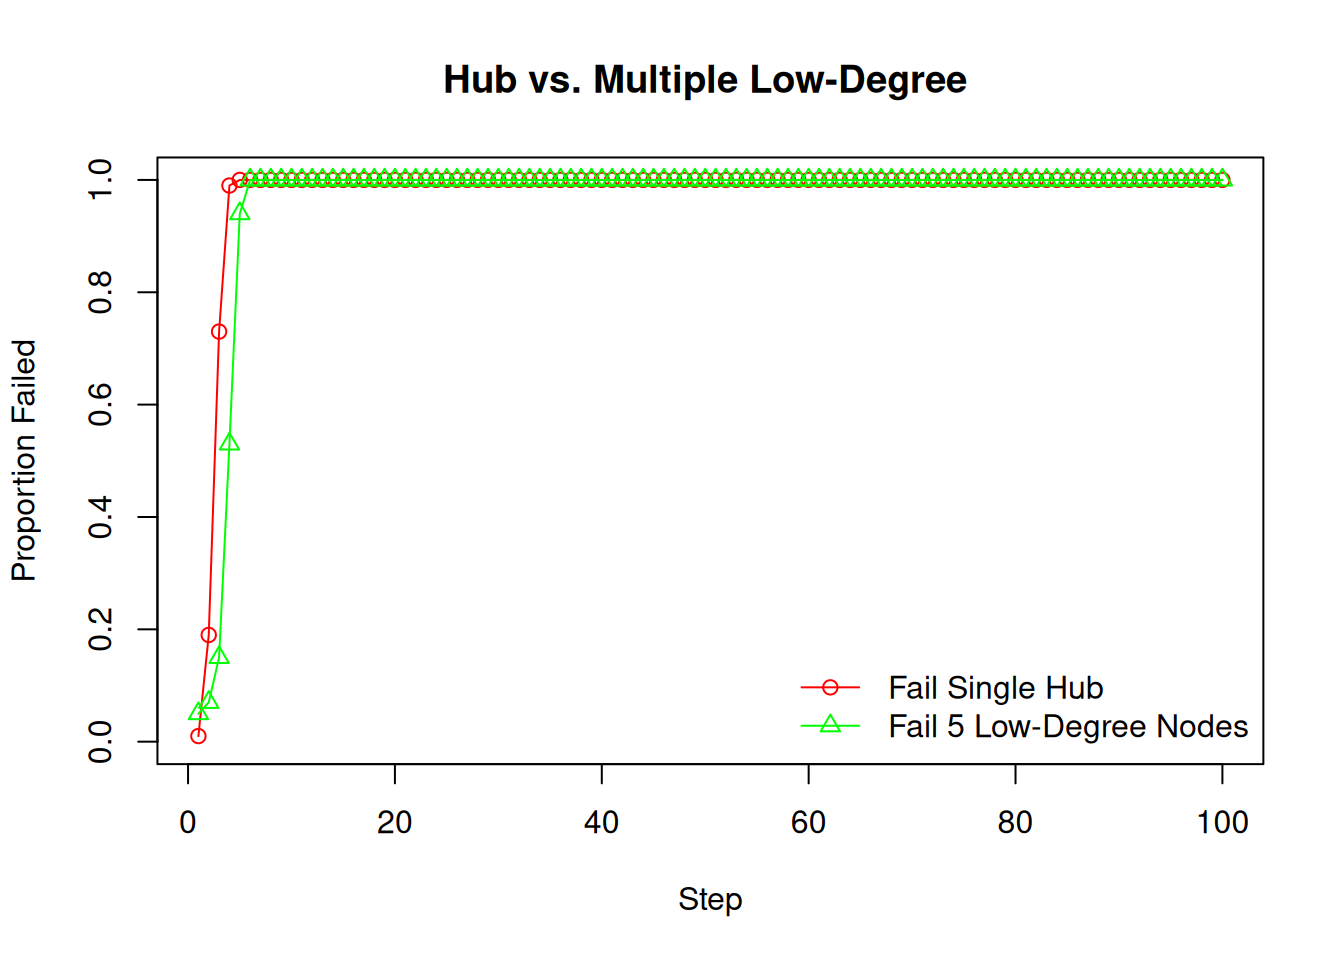
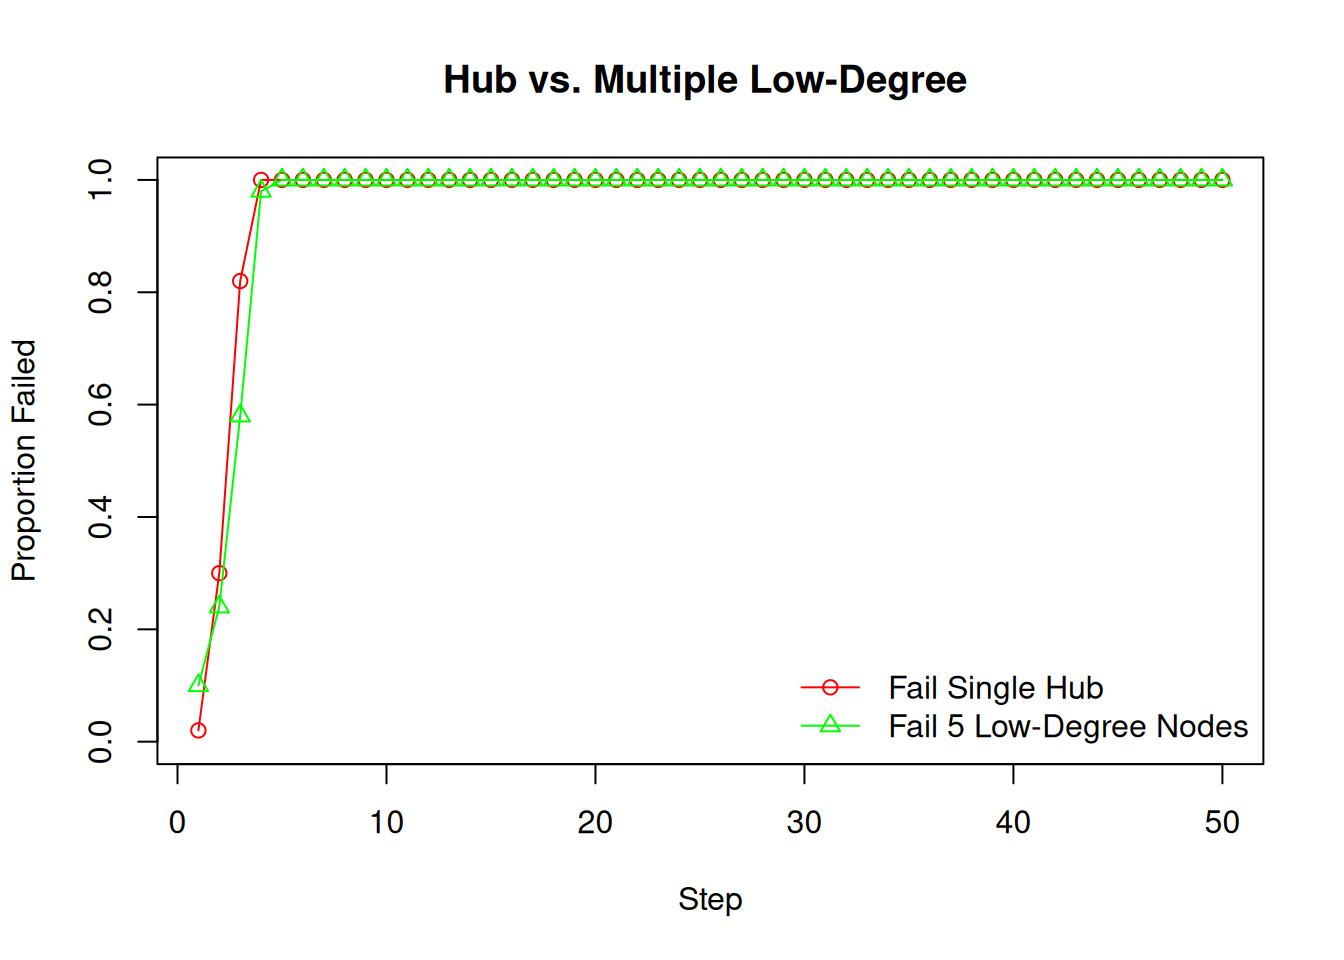
adjust alpha in MC's code

diff --git a/week6_2.html b/week6_2.html
@@ -213,7 +213,7 @@ window.Quarto = {
 <div class="cell">
 <div class="sourceCode cell-code" id="cb2"><pre class="sourceCode r code-with-copy"><code class="sourceCode r"><span id="cb2-1"><a href="#cb2-1" aria-hidden="true" tabindex="-1"></a><span class="fu">mean</span>(<span class="fu">degree</span>(gs[[<span class="dv">1</span>]]))</span></code><button title="Copy to Clipboard" class="code-copy-button"><i class="bi"></i></button></pre></div>
 <div class="cell-output cell-output-stdout">
-<pre><code>[1] 4.4</code></pre>
+<pre><code>[1] 5.6</code></pre>
 </div>
 <div class="sourceCode cell-code" id="cb4"><pre class="sourceCode r code-with-copy"><code class="sourceCode r"><span id="cb4-1"><a href="#cb4-1" aria-hidden="true" tabindex="-1"></a><span class="fu">mean</span>(<span class="fu">degree</span>(gs[[<span class="dv">2</span>]]))</span></code><button title="Copy to Clipboard" class="code-copy-button"><i class="bi"></i></button></pre></div>
 <div class="cell-output cell-output-stdout">
@@ -259,8 +259,8 @@ window.Quarto = {
 <h3 class="anchored" data-anchor-id="ba">BA</h3>
 <div class="cell">
 <div class="cell-output-display">
-<div class="visNetwork html-widget html-fill-item" id="htmlwidget-3789410e3f987a60fe19" style="width:100%;height:464px;"></div>
-<script type="application/json" data-for="htmlwidget-3789410e3f987a60fe19">{"x":{"nodes":{"id":["1","2","3","4","5","6","7","8","9","10","11","12","13","14","15","16","17","18","19","20"],"label":["1","2","3","4","5","6","7","8","9","10","11","12","13","14","15","16","17","18","19","20"]},"edges":{"from":["2","3","4","5","6","7","8","9","10","11","12","13","14","15","16","17","18","19","20"],"to":["1","2","2","1","1","2","6","2","1","10","2","11","2","2","2","6","6","2","6"]},"nodesToDataframe":true,"edgesToDataframe":true,"options":{"width":"100%","height":"100%","nodes":{"shape":"dot"},"manipulation":{"enabled":false},"physics":{"stabilization":true},"interaction":{"dragNodes":true,"dragView":true,"zoomSpeed":1}},"groups":null,"width":null,"height":null,"idselection":{"enabled":true,"style":"width: 150px; height: 26px","useLabels":true,"main":"Select by id"},"byselection":{"enabled":false,"style":"width: 150px; height: 26px","multiple":false,"hideColor":"rgba(200,200,200,0.5)","highlight":false},"main":null,"submain":null,"footer":null,"background":"rgba(0, 0, 0, 0)","highlight":{"enabled":true,"hoverNearest":false,"degree":1,"algorithm":"all","hideColor":"rgba(200,200,200,0.5)","labelOnly":true},"collapse":{"enabled":false,"fit":false,"resetHighlight":true,"clusterOptions":null,"keepCoord":true,"labelSuffix":"(cluster)"},"tooltipStay":300,"tooltipStyle":"position: fixed;visibility:hidden;padding: 5px;white-space: nowrap;font-family: verdana;font-size:14px;font-color:#000000;background-color: #f5f4ed;-moz-border-radius: 3px;-webkit-border-radius: 3px;border-radius: 3px;border: 1px solid #808074;box-shadow: 3px 3px 10px rgba(0, 0, 0, 0.2);"},"evals":[],"jsHooks":[]}</script>
+<div class="visNetwork html-widget html-fill-item" id="htmlwidget-915ab1a02c42fb39881e" style="width:100%;height:464px;"></div>
+<script type="application/json" data-for="htmlwidget-915ab1a02c42fb39881e">{"x":{"nodes":{"id":["1","2","3","4","5","6","7","8","9","10","11","12","13","14","15","16","17","18","19","20"],"label":["1","2","3","4","5","6","7","8","9","10","11","12","13","14","15","16","17","18","19","20"]},"edges":{"from":["2","3","4","5","6","7","8","9","10","11","12","13","14","15","16","17","18","19","20"],"to":["1","1","1","1","1","6","1","6","1","5","5","10","6","9","1","1","1","9","1"]},"nodesToDataframe":true,"edgesToDataframe":true,"options":{"width":"100%","height":"100%","nodes":{"shape":"dot"},"manipulation":{"enabled":false},"physics":{"stabilization":true},"interaction":{"dragNodes":true,"dragView":true,"zoomSpeed":1}},"groups":null,"width":null,"height":null,"idselection":{"enabled":true,"style":"width: 150px; height: 26px","useLabels":true,"main":"Select by id"},"byselection":{"enabled":false,"style":"width: 150px; height: 26px","multiple":false,"hideColor":"rgba(200,200,200,0.5)","highlight":false},"main":null,"submain":null,"footer":null,"background":"rgba(0, 0, 0, 0)","highlight":{"enabled":true,"hoverNearest":false,"degree":1,"algorithm":"all","hideColor":"rgba(200,200,200,0.5)","labelOnly":true},"collapse":{"enabled":false,"fit":false,"resetHighlight":true,"clusterOptions":null,"keepCoord":true,"labelSuffix":"(cluster)"},"tooltipStay":300,"tooltipStyle":"position: fixed;visibility:hidden;padding: 5px;white-space: nowrap;font-family: verdana;font-size:14px;font-color:#000000;background-color: #f5f4ed;-moz-border-radius: 3px;-webkit-border-radius: 3px;border-radius: 3px;border: 1px solid #808074;box-shadow: 3px 3px 10px rgba(0, 0, 0, 0.2);"},"evals":[],"jsHooks":[]}</script>
 </div>
 </div>
 </section>
@@ -268,8 +268,8 @@ window.Quarto = {
 <h3 class="anchored" data-anchor-id="er">ER</h3>
 <div class="cell">
 <div class="cell-output-display">
-<div class="visNetwork html-widget html-fill-item" id="htmlwidget-fb12c2c5dfe55ad3dbff" style="width:100%;height:464px;"></div>
-<script type="application/json" data-for="htmlwidget-fb12c2c5dfe55ad3dbff">{"x":{"nodes":{"id":["1","2","3","4","5","6","7","8","9","10","11","12","13","14","15","16","17","18","19","20"],"label":["1","2","3","4","5","6","7","8","9","10","11","12","13","14","15","16","17","18","19","20"]},"edges":{"from":["2","1","2","2","4","1","2","4","4","5","6","1","2","4","5","1","5","7","1","3","4","5","7","2","4","5","9","10","2","5","6","7","11","1","3","6","9","10","2","4","8","9","10","11","12","3","5","7","8","10","14","1","9","12","1","4","5","6","7","10","13","14","15","16","1","3","8","9","13","16","2","3","10","11","15","16","18","2","3","5","10","12","16","17"],"to":["3","4","4","5","5","6","6","6","7","7","7","8","8","8","8","9","9","9","10","10","10","10","10","11","11","11","11","11","12","12","12","12","12","13","13","13","13","13","14","14","14","14","14","14","14","15","15","15","15","15","15","16","16","16","17","17","17","17","17","17","17","17","17","17","18","18","18","18","18","18","19","19","19","19","19","19","19","20","20","20","20","20","20","20"]},"nodesToDataframe":true,"edgesToDataframe":true,"options":{"width":"100%","height":"100%","nodes":{"shape":"dot"},"manipulation":{"enabled":false},"physics":{"stabilization":true},"interaction":{"dragNodes":true,"dragView":true,"zoomSpeed":1}},"groups":null,"width":null,"height":null,"idselection":{"enabled":true,"style":"width: 150px; height: 26px","useLabels":true,"main":"Select by id"},"byselection":{"enabled":false,"style":"width: 150px; height: 26px","multiple":false,"hideColor":"rgba(200,200,200,0.5)","highlight":false},"main":null,"submain":null,"footer":null,"background":"rgba(0, 0, 0, 0)","highlight":{"enabled":true,"hoverNearest":false,"degree":1,"algorithm":"all","hideColor":"rgba(200,200,200,0.5)","labelOnly":true},"collapse":{"enabled":false,"fit":false,"resetHighlight":true,"clusterOptions":null,"keepCoord":true,"labelSuffix":"(cluster)"},"tooltipStay":300,"tooltipStyle":"position: fixed;visibility:hidden;padding: 5px;white-space: nowrap;font-family: verdana;font-size:14px;font-color:#000000;background-color: #f5f4ed;-moz-border-radius: 3px;-webkit-border-radius: 3px;border-radius: 3px;border: 1px solid #808074;box-shadow: 3px 3px 10px rgba(0, 0, 0, 0.2);"},"evals":[],"jsHooks":[]}</script>
+<div class="visNetwork html-widget html-fill-item" id="htmlwidget-dd24ea091e88e3b8a076" style="width:100%;height:464px;"></div>
+<script type="application/json" data-for="htmlwidget-dd24ea091e88e3b8a076">{"x":{"nodes":{"id":["1","2","3","4","5","6","7","8","9","10","11","12","13","14","15","16","17","18","19","20"],"label":["1","2","3","4","5","6","7","8","9","10","11","12","13","14","15","16","17","18","19","20"]},"edges":{"from":["1","1","2","3","4","1","2","3","1","2","4","2","3","6","2","4","7","8","1","2","3","4","5","8","1","2","3","4","7","9","10","3","6","9","2","3","4","6","7","8","9","11","2","3","4","5","6","7","9","10","13","4","6","7","11","12","13","5","7","8","1","2","3","4","6","7","9","11","13","1","2","4","5","8","11","12","16","17","1","2","3","5","7","9","12","13","14","16","17","18","1","3","5","7","9","10","12","13","15","16"],"to":["2","3","4","4","5","6","6","6","7","7","7","8","8","8","9","9","9","9","10","10","10","10","10","10","11","11","11","11","11","11","11","12","12","12","13","13","13","13","13","13","13","13","14","14","14","14","14","14","14","14","14","15","15","15","15","15","15","16","16","16","17","17","17","17","17","17","17","17","17","18","18","18","18","18","18","18","18","18","19","19","19","19","19","19","19","19","19","19","19","19","20","20","20","20","20","20","20","20","20","20"]},"nodesToDataframe":true,"edgesToDataframe":true,"options":{"width":"100%","height":"100%","nodes":{"shape":"dot"},"manipulation":{"enabled":false},"physics":{"stabilization":true},"interaction":{"dragNodes":true,"dragView":true,"zoomSpeed":1}},"groups":null,"width":null,"height":null,"idselection":{"enabled":true,"style":"width: 150px; height: 26px","useLabels":true,"main":"Select by id"},"byselection":{"enabled":false,"style":"width: 150px; height: 26px","multiple":false,"hideColor":"rgba(200,200,200,0.5)","highlight":false},"main":null,"submain":null,"footer":null,"background":"rgba(0, 0, 0, 0)","highlight":{"enabled":true,"hoverNearest":false,"degree":1,"algorithm":"all","hideColor":"rgba(200,200,200,0.5)","labelOnly":true},"collapse":{"enabled":false,"fit":false,"resetHighlight":true,"clusterOptions":null,"keepCoord":true,"labelSuffix":"(cluster)"},"tooltipStay":300,"tooltipStyle":"position: fixed;visibility:hidden;padding: 5px;white-space: nowrap;font-family: verdana;font-size:14px;font-color:#000000;background-color: #f5f4ed;-moz-border-radius: 3px;-webkit-border-radius: 3px;border-radius: 3px;border: 1px solid #808074;box-shadow: 3px 3px 10px rgba(0, 0, 0, 0.2);"},"evals":[],"jsHooks":[]}</script>
 </div>
 </div>
 </section>
@@ -277,8 +277,8 @@ window.Quarto = {
 <h3 class="anchored" data-anchor-id="ws">WS</h3>
 <div class="cell">
 <div class="cell-output-display">
-<div class="visNetwork html-widget html-fill-item" id="htmlwidget-5556dc5090d761275b6f" style="width:100%;height:464px;"></div>
-<script type="application/json" data-for="htmlwidget-5556dc5090d761275b6f">{"x":{"nodes":{"id":["1","2","3","4","5","6","7","8","9","10","11","12","13","14","15","16","17","18","19","20"],"label":["1","2","3","4","5","6","7","8","9","10","11","12","13","14","15","16","17","18","19","20"]},"edges":{"from":["10","2","3","4","5","6","7","11","9","10","11","12","8","6","15","7","17","8","15","1","1","1","7","1","4","4","5","6","7","8","9","1","11","6","1","14","15","4","13","18"],"to":["15","13","18","10","14","11","8","16","14","14","12","13","13","20","16","17","18","10","20","9","16","19","16","4","11","6","7","8","9","19","11","12","13","12","10","16","17","9","17","20"]},"nodesToDataframe":true,"edgesToDataframe":true,"options":{"width":"100%","height":"100%","nodes":{"shape":"dot"},"manipulation":{"enabled":false},"physics":{"stabilization":true},"interaction":{"dragNodes":true,"dragView":true,"zoomSpeed":1}},"groups":null,"width":null,"height":null,"idselection":{"enabled":true,"style":"width: 150px; height: 26px","useLabels":true,"main":"Select by id"},"byselection":{"enabled":false,"style":"width: 150px; height: 26px","multiple":false,"hideColor":"rgba(200,200,200,0.5)","highlight":false},"main":null,"submain":null,"footer":null,"background":"rgba(0, 0, 0, 0)","highlight":{"enabled":true,"hoverNearest":false,"degree":1,"algorithm":"all","hideColor":"rgba(200,200,200,0.5)","labelOnly":true},"collapse":{"enabled":false,"fit":false,"resetHighlight":true,"clusterOptions":null,"keepCoord":true,"labelSuffix":"(cluster)"},"tooltipStay":300,"tooltipStyle":"position: fixed;visibility:hidden;padding: 5px;white-space: nowrap;font-family: verdana;font-size:14px;font-color:#000000;background-color: #f5f4ed;-moz-border-radius: 3px;-webkit-border-radius: 3px;border-radius: 3px;border: 1px solid #808074;box-shadow: 3px 3px 10px rgba(0, 0, 0, 0.2);"},"evals":[],"jsHooks":[]}</script>
+<div class="visNetwork html-widget html-fill-item" id="htmlwidget-c0d9774a8040d3694a8c" style="width:100%;height:464px;"></div>
+<script type="application/json" data-for="htmlwidget-c0d9774a8040d3694a8c">{"x":{"nodes":{"id":["1","2","3","4","5","6","7","8","9","10","11","12","13","14","15","16","17","18","19","20"],"label":["1","2","3","4","5","6","7","8","9","10","11","12","13","14","15","16","17","18","19","20"]},"edges":{"from":["2","10","3","5","6","5","7","1","5","10","8","6","9","14","6","7","17","8","19","1","14","2","16","15","1","4","7","6","9","5","9","12","3","9","9","4","5","16","9","18"],"to":["6","13","4","11","20","9","10","8","10","11","11","7","11","17","11","17","18","18","20","9","15","19","20","19","18","6","20","12","20","8","18","19","13","14","15","19","15","18","19","20"]},"nodesToDataframe":true,"edgesToDataframe":true,"options":{"width":"100%","height":"100%","nodes":{"shape":"dot"},"manipulation":{"enabled":false},"physics":{"stabilization":true},"interaction":{"dragNodes":true,"dragView":true,"zoomSpeed":1}},"groups":null,"width":null,"height":null,"idselection":{"enabled":true,"style":"width: 150px; height: 26px","useLabels":true,"main":"Select by id"},"byselection":{"enabled":false,"style":"width: 150px; height: 26px","multiple":false,"hideColor":"rgba(200,200,200,0.5)","highlight":false},"main":null,"submain":null,"footer":null,"background":"rgba(0, 0, 0, 0)","highlight":{"enabled":true,"hoverNearest":false,"degree":1,"algorithm":"all","hideColor":"rgba(200,200,200,0.5)","labelOnly":true},"collapse":{"enabled":false,"fit":false,"resetHighlight":true,"clusterOptions":null,"keepCoord":true,"labelSuffix":"(cluster)"},"tooltipStay":300,"tooltipStyle":"position: fixed;visibility:hidden;padding: 5px;white-space: nowrap;font-family: verdana;font-size:14px;font-color:#000000;background-color: #f5f4ed;-moz-border-radius: 3px;-webkit-border-radius: 3px;border-radius: 3px;border: 1px solid #808074;box-shadow: 3px 3px 10px rgba(0, 0, 0, 0.2);"},"evals":[],"jsHooks":[]}</script>
 </div>
 </div>
 </section>
@@ -599,7 +599,7 @@ window.Quarto = {
 </blockquote>
 </section>
 <section id="can-we-know-the-thresholds-for-vertices" class="level2">
-<h2 class="anchored" data-anchor-id="can-we-know-the-thresholds-for-vertices">Can We Know the Thresholds for Vertices?</h2>
+<h2 class="anchored" data-anchor-id="can-we-know-the-thresholds-for-vertices">Can we know the thresholds for vertices?</h2>
 <p>In the CASCADE model, the threshold is essentially defined by a node’s capacity and its load. In Watts’ model, the threshold (<span class="math inline">\(\phi\)</span>) for a node determines the fraction of its neighbors that must be “on” for it to switch “on.”</p>
 <p>In <strong>engineered/physical systems</strong>, the thresholds can often be estimated or are known from design specifications. For example, a power line has a maximum current capacity, a router has a maximum data throughput, and a bridge has a maximum weight limit.</p>
 <p>These thresholds are based on physical properties and engineering design tolerances. However, even in these systems, thresholds can be dynamic, affected by environmental conditions (e.g., temperature affecting power line sag and capacity), aging, maintenance levels, or even “hidden failures” where a component’s actual capacity is less than assumed.</p>
@@ -628,7 +628,7 @@ An example of insomnia development.
 </section>
 </section>
 <section id="weave-in-graph-structures" class="level1">
-<h1>Weave in Graph Structures</h1>
+<h1>Weave in graph structures</h1>
 <section id="contrasting-erdősrényi-and-barabásialbert-random-graphs" class="level2">
 <h2 class="anchored" data-anchor-id="contrasting-erdősrényi-and-barabásialbert-random-graphs">Contrasting Erdős–Rényi and Barabási–Albert random graphs</h2>
 <section id="erdősrényi-er-graphs" class="level3">
@@ -903,7 +903,7 @@ An example of insomnia development.
 <details class="code-fold">
 <summary>Show the code</summary>
 <div class="sourceCode cell-code" id="cb19"><pre class="sourceCode r code-with-copy"><code class="sourceCode r"><span id="cb19-1"><a href="#cb19-1" aria-hidden="true" tabindex="-1"></a><span class="fu">set.seed</span>(<span class="dv">8852</span>)</span>
-<span id="cb19-2"><a href="#cb19-2" aria-hidden="true" tabindex="-1"></a>n_nodes <span class="ot">=</span> <span class="dv">100</span></span>
+<span id="cb19-2"><a href="#cb19-2" aria-hidden="true" tabindex="-1"></a>n_nodes <span class="ot">=</span> <span class="dv">50</span></span>
 <span id="cb19-3"><a href="#cb19-3" aria-hidden="true" tabindex="-1"></a>m_param <span class="ot">=</span> <span class="dv">2</span></span>
 <span id="cb19-4"><a href="#cb19-4" aria-hidden="true" tabindex="-1"></a>n_min_deg_nodes <span class="ot">=</span> <span class="dv">5</span> <span class="co"># number nodes with the minimum degree</span></span>
 <span id="cb19-5"><a href="#cb19-5" aria-hidden="true" tabindex="-1"></a></span>
@@ -935,13 +935,13 @@ An example of insomnia development.
 <span id="cb19-31"><a href="#cb19-31" aria-hidden="true" tabindex="-1"></a>cascade_hub_xiang <span class="ot">=</span> <span class="fu">cascade.Xiang.multi</span>(<span class="at">g =</span> g_ba,</span>
 <span id="cb19-32"><a href="#cb19-32" aria-hidden="true" tabindex="-1"></a>                                            <span class="at">seed =</span> hub,</span>
 <span id="cb19-33"><a href="#cb19-33" aria-hidden="true" tabindex="-1"></a>                                            <span class="at">T_cap =</span> <span class="fl">1.1</span>, </span>
-<span id="cb19-34"><a href="#cb19-34" aria-hidden="true" tabindex="-1"></a>                                            <span class="at">alpha =</span> <span class="fl">1.2</span>,</span>
+<span id="cb19-34"><a href="#cb19-34" aria-hidden="true" tabindex="-1"></a>                                            <span class="at">alpha =</span> <span class="dv">1</span>,</span>
 <span id="cb19-35"><a href="#cb19-35" aria-hidden="true" tabindex="-1"></a>                                            <span class="at">max.steps =</span> <span class="dv">10000</span>)</span>
 <span id="cb19-36"><a href="#cb19-36" aria-hidden="true" tabindex="-1"></a></span>
 <span id="cb19-37"><a href="#cb19-37" aria-hidden="true" tabindex="-1"></a>cascade_low_xiang <span class="ot">=</span> <span class="fu">cascade.Xiang.multi</span>(<span class="at">g =</span> g_ba,</span>
 <span id="cb19-38"><a href="#cb19-38" aria-hidden="true" tabindex="-1"></a>                                        <span class="at">seed =</span> low_deg,</span>
 <span id="cb19-39"><a href="#cb19-39" aria-hidden="true" tabindex="-1"></a>                                        <span class="at">T_cap =</span> <span class="fl">1.1</span>, </span>
-<span id="cb19-40"><a href="#cb19-40" aria-hidden="true" tabindex="-1"></a>                                        <span class="at">alpha =</span> <span class="fl">1.2</span>,</span>
+<span id="cb19-40"><a href="#cb19-40" aria-hidden="true" tabindex="-1"></a>                                        <span class="at">alpha =</span> <span class="dv">1</span>,</span>
 <span id="cb19-41"><a href="#cb19-41" aria-hidden="true" tabindex="-1"></a>                                        <span class="at">max.steps =</span> <span class="dv">10000</span>)</span>
 <span id="cb19-42"><a href="#cb19-42" aria-hidden="true" tabindex="-1"></a></span>
 <span id="cb19-43"><a href="#cb19-43" aria-hidden="true" tabindex="-1"></a>max_len <span class="ot">=</span> <span class="fu">max</span>(<span class="fu">length</span>(cascade_hub_xiang), <span class="fu">length</span>(cascade_low_xiang), n_nodes)</span>
@@ -1077,13 +1077,13 @@ An example of insomnia development.
 <span id="cb20-106"><a href="#cb20-106" aria-hidden="true" tabindex="-1"></a>cascade_multi_connected_xiang <span class="ot">=</span> <span class="fu">cascade.Xiang.multi</span>(</span>
 <span id="cb20-107"><a href="#cb20-107" aria-hidden="true" tabindex="-1"></a>  <span class="at">g =</span> combined_g_connected_multi,</span>
 <span id="cb20-108"><a href="#cb20-108" aria-hidden="true" tabindex="-1"></a>  <span class="at">seed =</span> seed_multi_connected,</span>
-<span id="cb20-109"><a href="#cb20-109" aria-hidden="true" tabindex="-1"></a>  <span class="at">T_cap =</span> <span class="fl">1.2</span>, <span class="at">alpha =</span> <span class="fl">1.5</span>)</span>
-<span id="cb20-110"><a href="#cb20-110" aria-hidden="true" tabindex="-1"></a><span class="co"># Cascade in the single BA graph, failing its main hub</span></span>
+<span id="cb20-109"><a href="#cb20-109" aria-hidden="true" tabindex="-1"></a>  <span class="at">T_cap =</span> <span class="fl">1.2</span>, <span class="at">alpha =</span> <span class="dv">1</span>)</span>
+<span id="cb20-110"><a href="#cb20-110" aria-hidden="true" tabindex="-1"></a><span class="co"># cascade in the single BA graph, failing its main hub</span></span>
 <span id="cb20-111"><a href="#cb20-111" aria-hidden="true" tabindex="-1"></a>hub_single_ba <span class="ot">=</span> <span class="fu">which.max</span>(<span class="fu">degree</span>(g_single_ba))</span>
 <span id="cb20-112"><a href="#cb20-112" aria-hidden="true" tabindex="-1"></a>cascade_single_ba_xiang <span class="ot">=</span> <span class="fu">cascade.Xiang.multi</span>(</span>
 <span id="cb20-113"><a href="#cb20-113" aria-hidden="true" tabindex="-1"></a>  <span class="at">g =</span> g_single_ba,</span>
 <span id="cb20-114"><a href="#cb20-114" aria-hidden="true" tabindex="-1"></a>  <span class="at">seed =</span> hub_single_ba,</span>
-<span id="cb20-115"><a href="#cb20-115" aria-hidden="true" tabindex="-1"></a>  <span class="at">T_cap =</span> <span class="fl">1.2</span>, <span class="at">alpha =</span> <span class="fl">1.5</span>)</span>
+<span id="cb20-115"><a href="#cb20-115" aria-hidden="true" tabindex="-1"></a>  <span class="at">T_cap =</span> <span class="fl">1.2</span>, <span class="at">alpha =</span> <span class="dv">1</span>)</span>
 <span id="cb20-116"><a href="#cb20-116" aria-hidden="true" tabindex="-1"></a></span>
 <span id="cb20-117"><a href="#cb20-117" aria-hidden="true" tabindex="-1"></a></span>
 <span id="cb20-118"><a href="#cb20-118" aria-hidden="true" tabindex="-1"></a>max_len <span class="ot">=</span> <span class="fu">max</span>(<span class="fu">length</span>(cascade_multi_connected_xiang), </span>
@@ -1123,9 +1123,6 @@ An example of insomnia development.
 </div>
 </div>
 </div>
-<section id="before-our-discussion-lets-play-a-little-game" class="level3">
-<h3 class="anchored" data-anchor-id="before-our-discussion-lets-play-a-little-game">Before our discussion, let’s play a little game…</h3>
-</section>
 </section>
 </section>
 <section id="discussion" class="level1">
